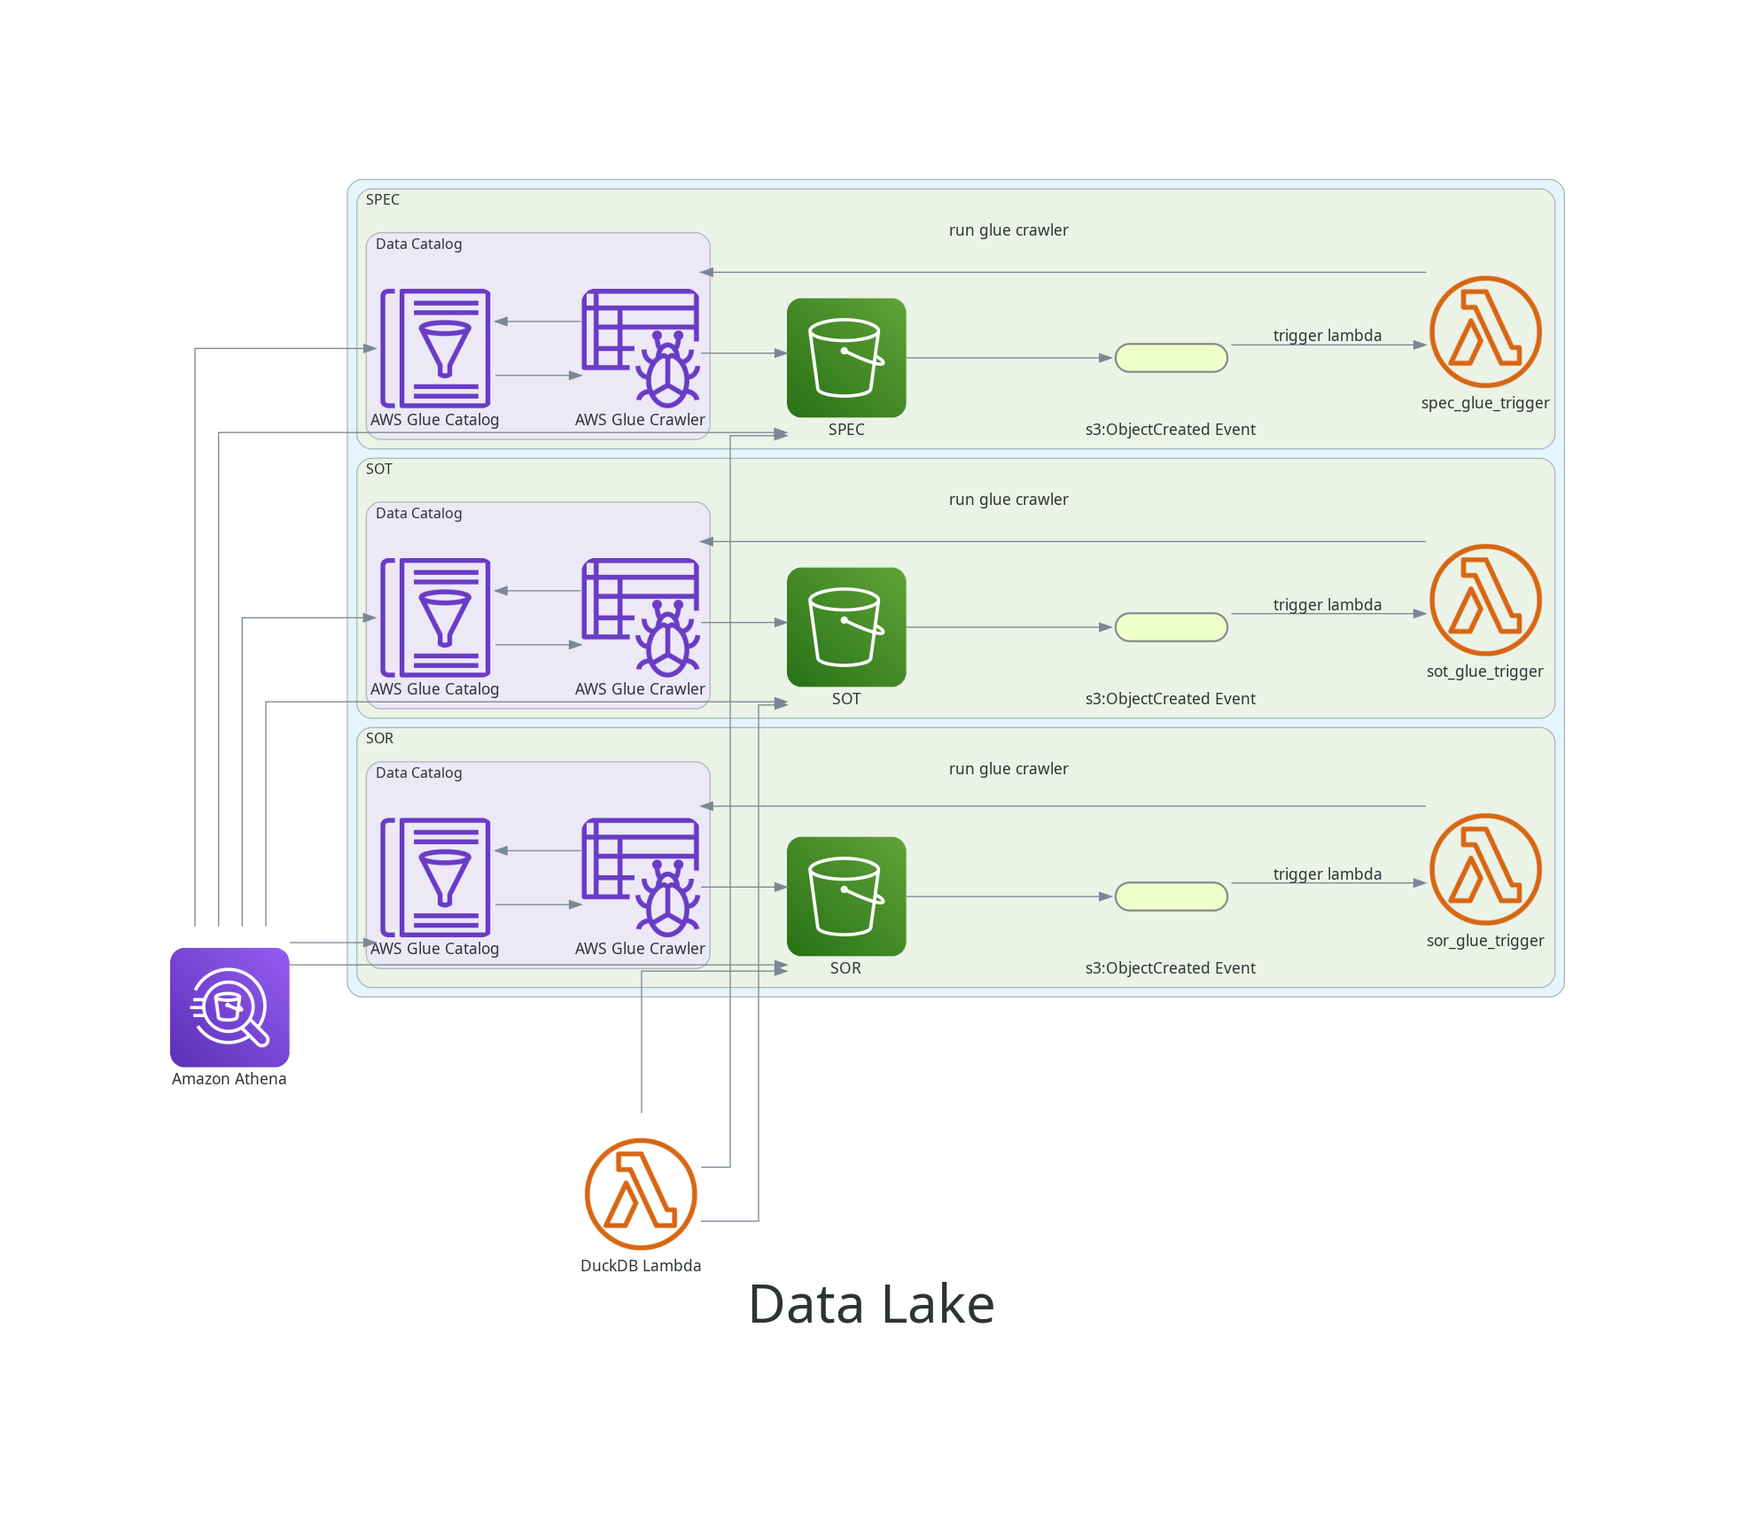
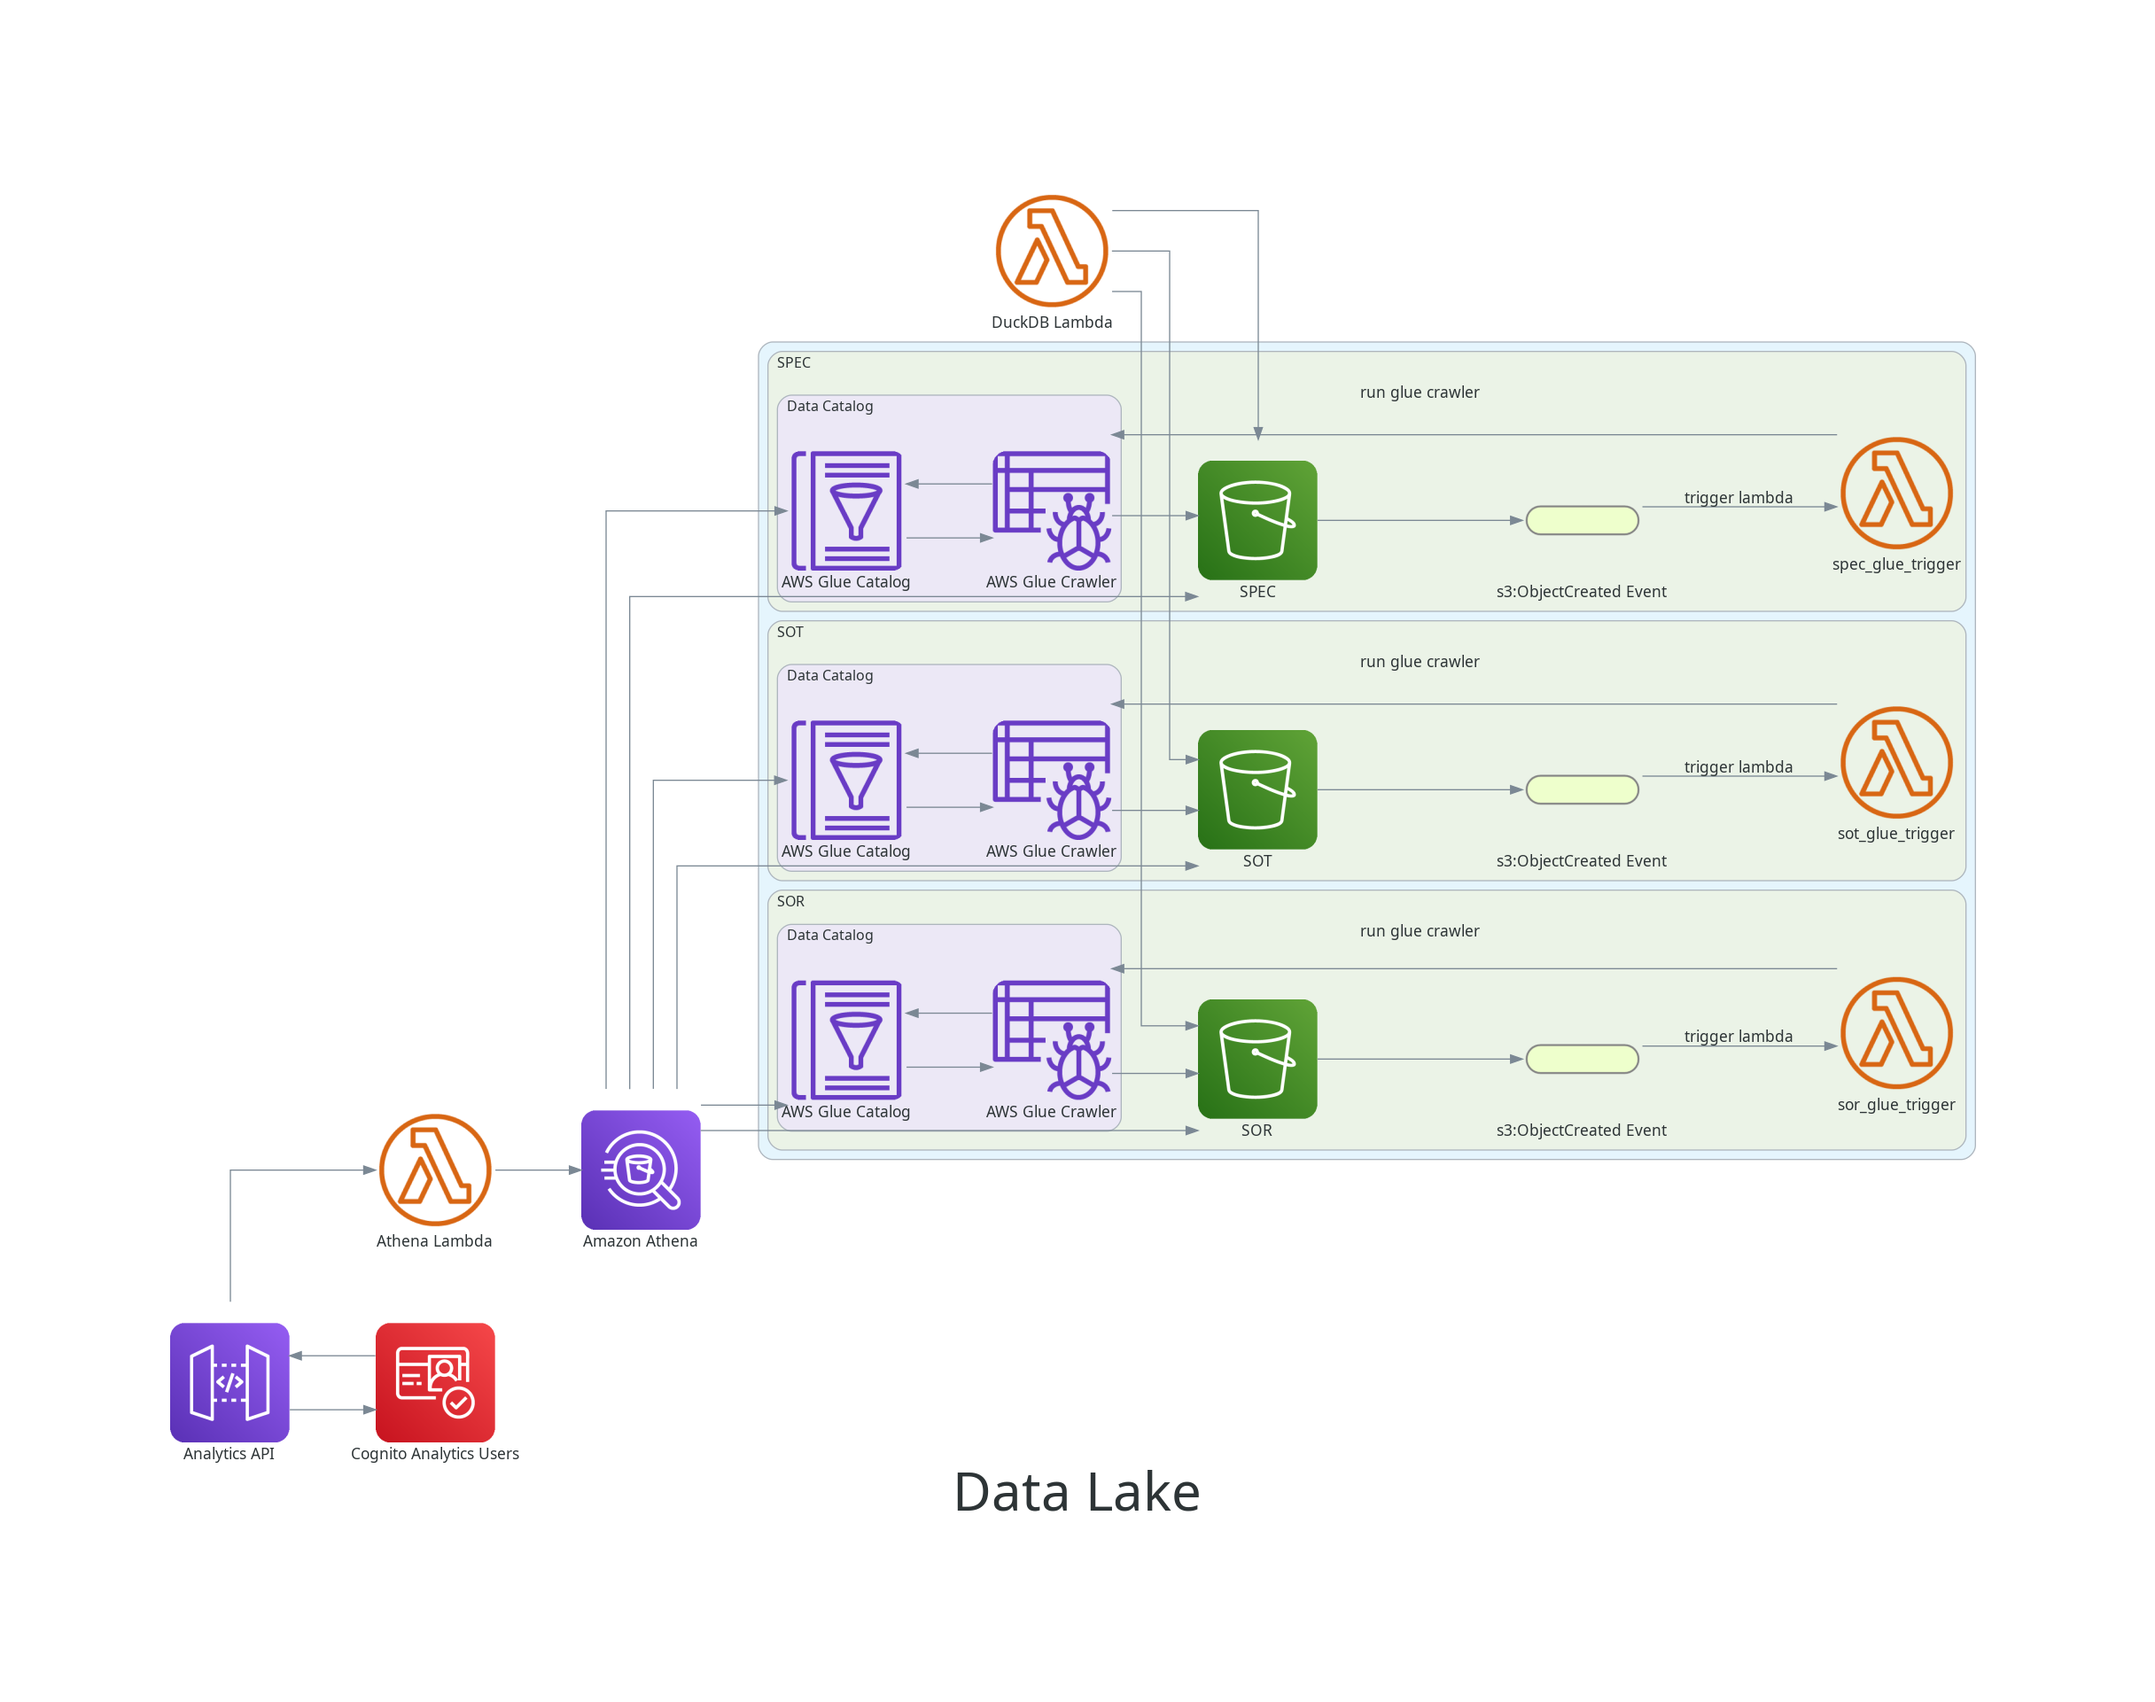
docs: update solution diagram

diff --git a/docs/solution/diagram.py b/docs/solution/diagram.py
@@ -1,6 +1,8 @@
 from diagrams import Cluster, Diagram, Edge
 from diagrams.aws.analytics import Athena, GlueCrawlers, GlueDataCatalog
 from diagrams.aws.compute import LambdaFunction
+from diagrams.aws.network import APIGateway
+from diagrams.aws.security import Cognito
 from diagrams.aws.storage import S3
 from diagrams.programming.flowchart import StartEnd
 
@@ -37,6 +39,9 @@ graph_attr = {
 with Diagram("Data Lake", graph_attr=graph_attr, direction="LR"):
     athena = Athena("Amazon Athena")
     duckdb_lambda = LambdaFunction(label="DuckDB Lambda")
+    athena_lambda = LambdaFunction(label="Athena Lambda")
+    analytics_api = APIGateway(label="Analytics API")
+    cognito_analytics_pool = Cognito(label="Cognito Analytics Users")
     trigger_lambda = Edge(label="trigger lambda")
     run_glue_crawler = Edge(label="run glue crawler")
 
@@ -64,5 +69,13 @@ with Diagram("Data Lake", graph_attr=graph_attr, direction="LR"):
                 >> glue_crawler
                 >> glue_data_catalog
             )
-    athena >> buckets
+
+    (
+        analytics_api
+        >> cognito_analytics_pool
+        >> analytics_api
+        >> athena_lambda
+        >> athena
+        >> buckets
+    )
     duckdb_lambda >> buckets
